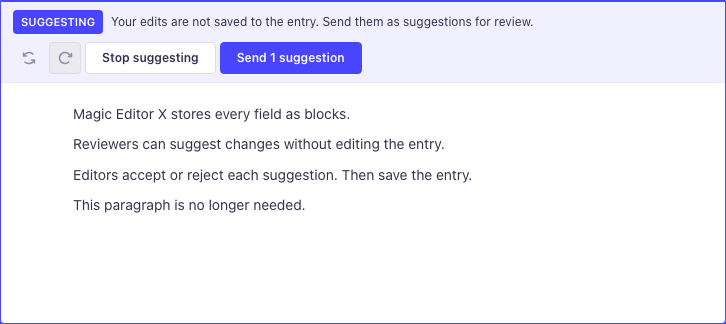
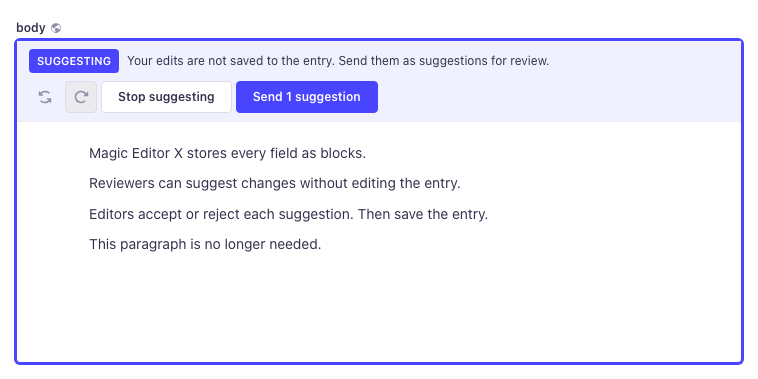
fix(suggestions): suggestion markers beside comment markers
A block with both markers gets a second marker column (the holder gutter
widens only while such a block exists); stacking them vertically overlapped
the marker of the next block.

Changed region(s): [[0.0, 0.0, 1.0, 1.0], [0.0909, 0.3395, 0.6667, 0.5864], [0.0909, 0.6173, 0.4242, 0.679]]

diff --git a/admin/src/components/EditorField/SuggestionMarkers.jsx b/admin/src/components/EditorField/SuggestionMarkers.jsx
@@ -6,12 +6,10 @@ import styled from 'styled-components';
  * Per-block suggestion indicators (2.4), pattern of the comment markers: a
  * small button with the number of open suggestions at the inline end of every
  * block that has some (inserts count on the block they go after). On a block
- * that also has a comment marker it sits below that one. The layer is next to
- * the Editor.js holder, never inside it.
+ * that also has a comment marker it sits beside that one (the field widens its
+ * gutter for this, see `$gutter` in index.jsx). The layer is next to the
+ * Editor.js holder, never inside it.
  */
-
-/** Distance below a comment marker on the same block (marker height 3.2rem plus a gap). */
-const STACK_OFFSET_PX = 36;
 
 const Layer = styled.div`
   position: absolute;
@@ -22,7 +20,8 @@ const Layer = styled.div`
 
 const Marker = styled.button`
   position: absolute;
-  inset-inline-end: ${({ theme }) => theme.spaces[1]};
+  /* Beside a comment marker: one marker width (3.2rem) plus the gap to the right. */
+  inset-inline-end: ${({ theme, $beside }) => ($beside ? `calc(${theme.spaces[2]} + 3.2rem)` : theme.spaces[1])};
   pointer-events: auto;
   display: inline-flex;
   align-items: center;
@@ -62,7 +61,7 @@ const Marker = styled.button`
  * @param {{ current: HTMLElement|null }} props.containerRef - Positioned element around the holder.
  * @param {{ current: HTMLElement|null }} props.holderRef - Editor.js holder.
  * @param {Map<string, number>} props.counts - Open suggestions per block id.
- * @param {Map<string, number>} [props.stackBelow] - Blocks with a comment marker (this marker goes below it).
+ * @param {Map<string, number>} [props.beside] - Blocks with a comment marker (this marker goes beside it).
  * @param {string[]} props.blockIds - Block ids in document order.
  * @param {number} props.version - Changes when the content changed.
  * @param {(blockId: string) => void} props.onOpen - Opens the block's suggestions.
@@ -73,7 +72,7 @@ export const SuggestionMarkers = ({
   containerRef,
   holderRef,
   counts,
-  stackBelow = new Map(),
+  beside = new Map(),
   blockIds,
   version,
   onOpen,
@@ -82,7 +81,7 @@ export const SuggestionMarkers = ({
   const [positions, setPositions] = useState([]);
   const frame = useRef(0);
   const key = Array.from(counts.entries())
-    .map(([id, count]) => `${id}:${count}:${stackBelow.has(id) ? 1 : 0}`)
+    .map(([id, count]) => `${id}:${count}:${beside.has(id) ? 1 : 0}`)
     .join(',');
 
   useLayoutEffect(() => {
@@ -105,8 +104,9 @@ export const SuggestionMarkers = ({
           next.push({
             blockId,
             count,
-            top: rect.top - origin.top + (stackBelow.has(blockId) ? STACK_OFFSET_PX : 0),
+            top: rect.top - origin.top,
             index: blockIds.indexOf(blockId),
+            besideComment: beside.has(blockId),
           });
         }
         next.sort((a, b) => a.top - b.top);
@@ -124,16 +124,17 @@ export const SuggestionMarkers = ({
       window.removeEventListener('resize', update);
       holder.removeEventListener('scroll', update, true);
     };
-    // counts and stackBelow are compared through `key`
+    // counts and beside are compared through `key`
     // eslint-disable-next-line react-hooks/exhaustive-deps -- `key` stands for counts
   }, [containerRef, holderRef, key, version, blockIds]);
 
   if (positions.length === 0) return null;
   return (
     <Layer data-testid="mex-suggestion-markers">
-      {positions.map(({ blockId, count, top, index }) => (
+      {positions.map(({ blockId, count, top, index, besideComment }) => (
         <Marker
           key={blockId}
+          $beside={besideComment}
           type="button"
           style={{ top }}
           data-block-id={blockId}

diff --git a/admin/src/components/EditorField/index.jsx b/admin/src/components/EditorField/index.jsx
@@ -240,8 +240,11 @@ const Holder = styled.div`
   }
   min-height: ${({ $minHeight }) => `${$minHeight}px`};
   ${({ $fullscreen }) => ($fullscreen ? 'flex: 1 1 auto; overflow: auto;' : '')}
-  /* Room for the block comment markers at the inline end (they sit outside the holder). */
-  ${({ $gutter, theme }) => ($gutter ? `&& { padding-inline-end: ${theme.spaces[8]}; }` : '')}
+  /* Room for the block comment and suggestion markers at the inline end (they sit outside the holder). */
+  ${({ $gutter, theme }) =>
+    $gutter
+      ? `&& { padding-inline-end: ${$gutter === 2 ? `calc(${theme.spaces[8]} + 3.6rem)` : theme.spaces[8]}; }`
+      : ''}
   ${({ $focus, theme }) =>
     $focus
       ? `
@@ -1567,6 +1570,13 @@ const EditorFieldBody = ({
     [suggestionsEnabled, suggestions.suggestions, commentBlockIds]
   );
   const suggestionsOpenCount = suggestionsEnabled ? suggestions.counts.open : 0;
+  // Marker columns at the inline end: two only while a block has both a comment and a suggestion marker.
+  const markerColumns =
+    commentsEnabled || suggestionsEnabled
+      ? Array.from(suggestionCounts.keys()).some((id) => commentsEnabled && commentCounts.has(id))
+        ? 2
+        : 1
+      : 0;
 
   /** Starts suggest mode on a copy of what the editor shows now. */
   const startSuggest = useCallback(async () => {
@@ -2232,7 +2242,7 @@ const EditorFieldBody = ({
               $minHeight={minHeight}
               $fullscreen={fullscreen}
               $focus={focusMode}
-              $gutter={commentsEnabled || suggestionsEnabled}
+              $gutter={markerColumns}
               data-testid="magic-editor-x"
               aria-busy={!ready}
               aria-describedby={`${name}-mex-keyboard`}
@@ -2253,7 +2263,7 @@ const EditorFieldBody = ({
                 containerRef={areaRef}
                 holderRef={holderRef}
                 counts={suggestionCounts}
-                stackBelow={commentsEnabled ? commentCounts : undefined}
+                beside={commentsEnabled ? commentCounts : undefined}
                 blockIds={commentBlockIds}
                 version={contentVersion}
                 onOpen={openBlockSuggestions}
